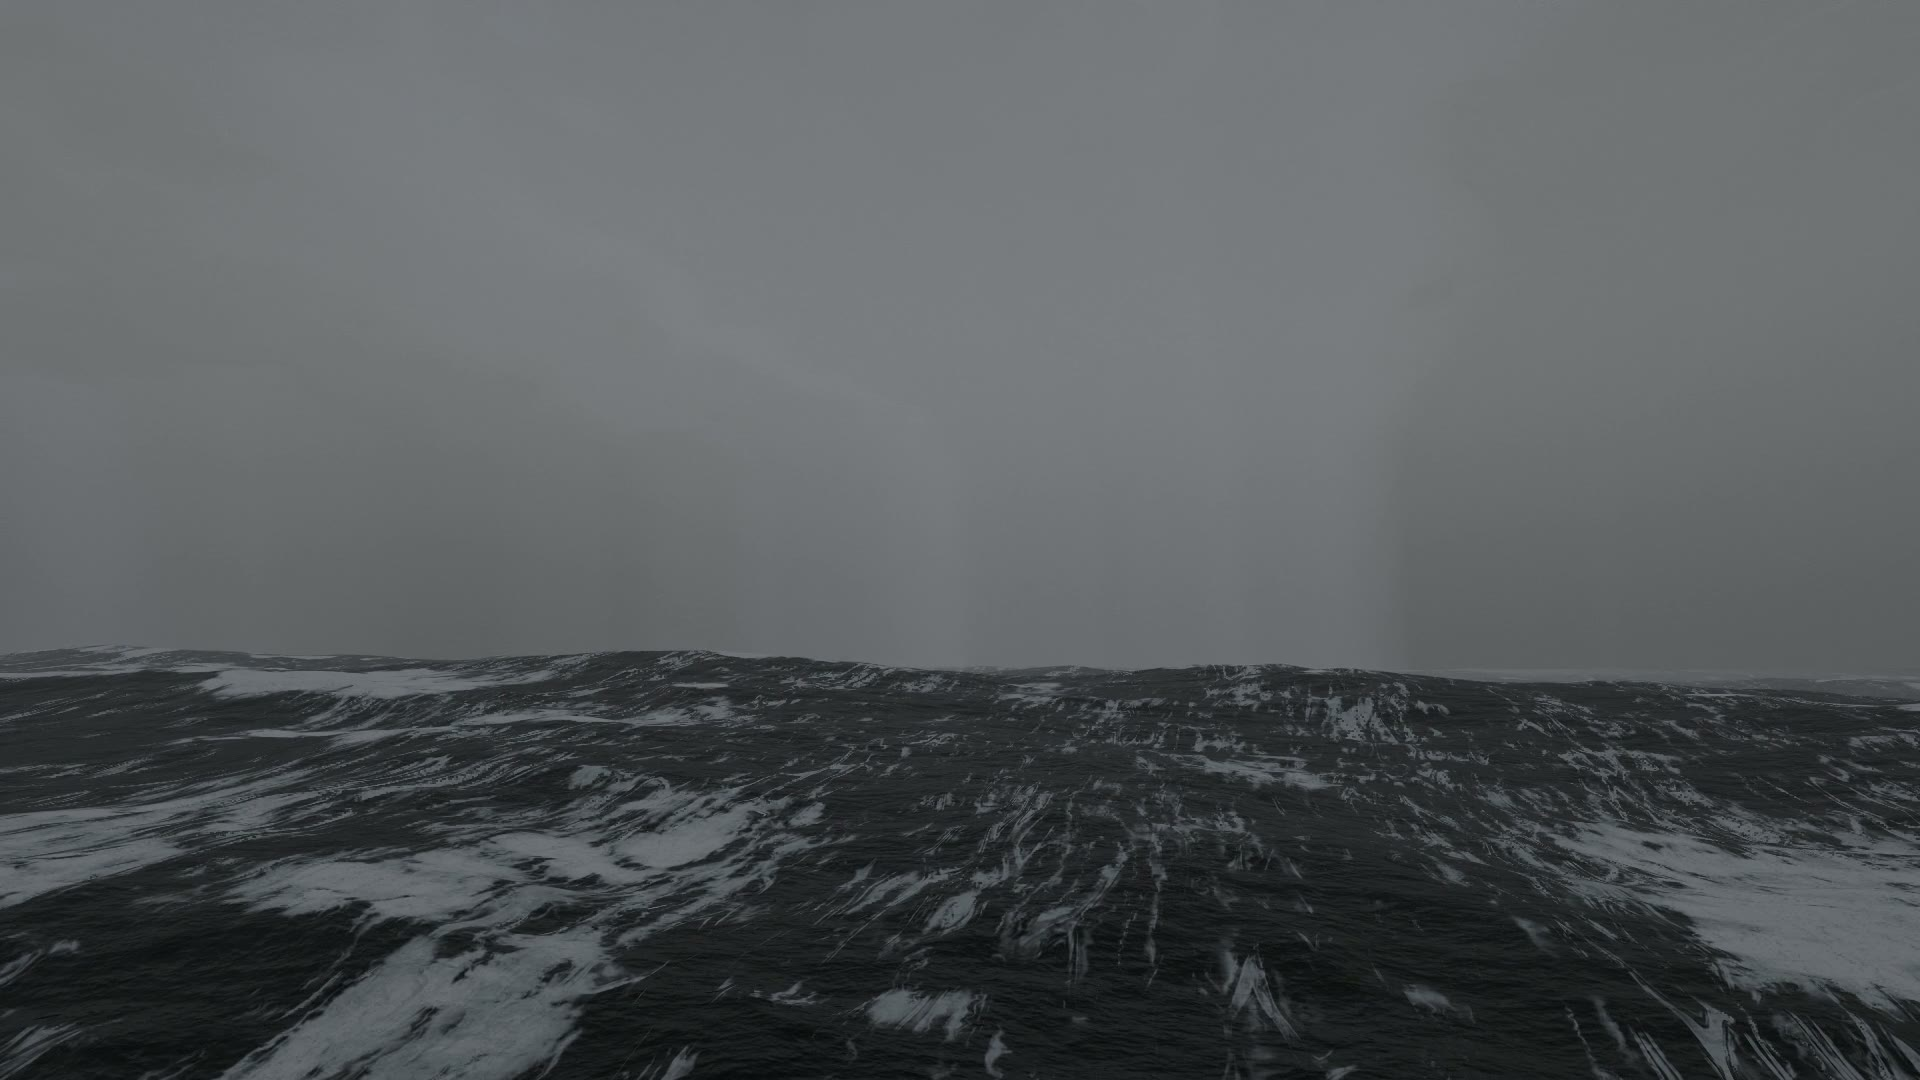
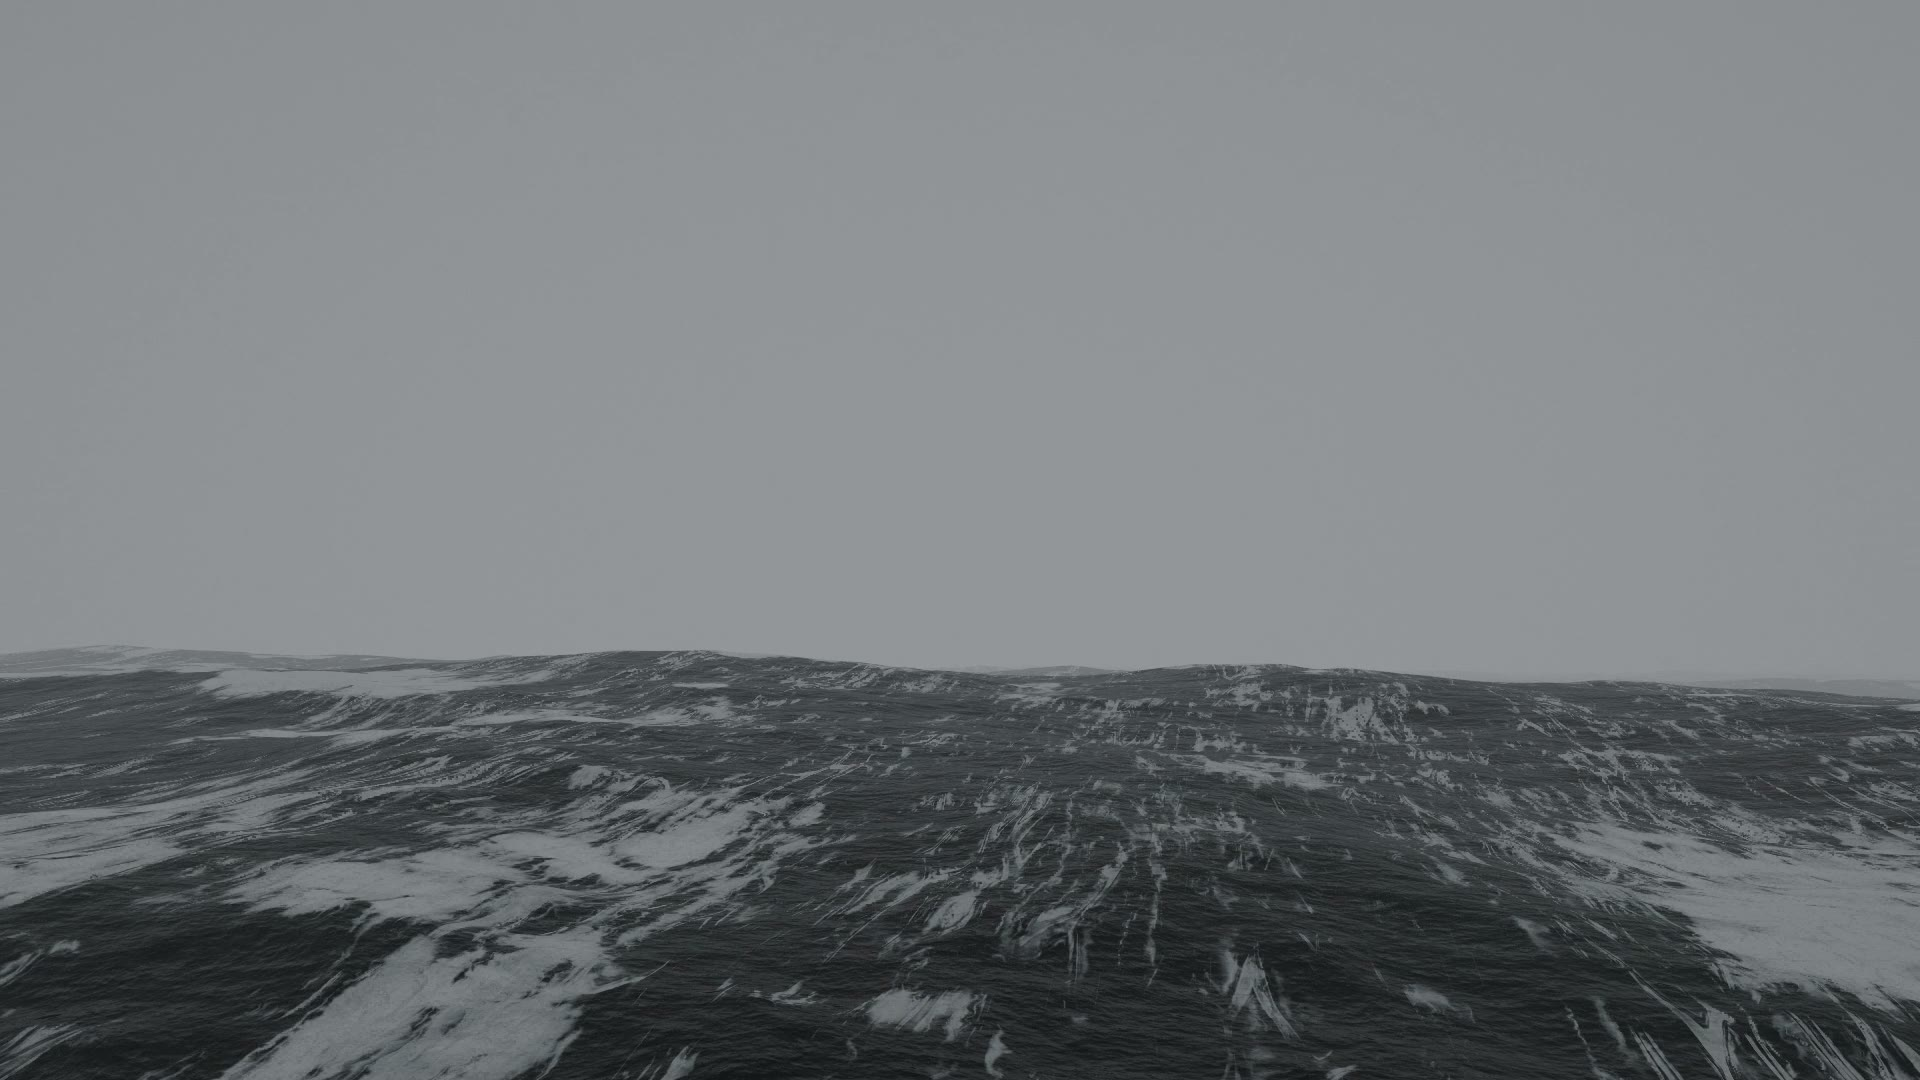
Film 1.3: act II clouds over (no squall front sweeping by), crackle-free sound, new stills
The one-minute film rendered with the reworked act II: building cumulus, a lowering dark deck, then
rain, gale and lightning. Sound: seamless noise loops and soft hull slaps (no crackle), and thunder
belongs to its own act: the last crack carries briefly over the cut to the night act and fades,
instead of a 22 s recording crackling on through the calm night.

diff --git a/src/audio/audio.js b/src/audio/audio.js
@@ -198,9 +198,10 @@ export class AudioEngine {
 
   // Thunder from a strike at distance (m): delay by the speed of sound, air absorption removes
   // highs with distance (the crack becomes a rumble), level falls ~1/r with a floor.
-  thunder(at, dist, power = 1, seed = Math.random()) {
+  // until: the end of its film act (the last crack may carry briefly over the cut, then fades)
+  thunder(at, dist, power = 1, seed = Math.random(), until = Infinity) {
     const ctx = this.ctx;
-    if (!ctx) return;
+    if (!ctx || at + dist / 343 > until - 0.6) return;
     const close = dist < 2200 && this.buffers.thunder_close;
     const name = close ? 'thunder_close' : THUNDER_FILES[Math.floor(seed * THUNDER_FILES.length) % THUNDER_FILES.length];
     const buf = this.buffers[name];
@@ -218,6 +219,7 @@ export class AudioEngine {
     if (pan) { pan.pan.value = (seed - 0.5) * 0.9; n = n.connect(pan); }
     n.connect(this.bus);
     src.start(at + dist / 343);
+    if (Number.isFinite(until)) { g.gain.setTargetAtTime(0, until - 0.8, 0.25); src.stop(until + 1); }
   }
 }
 
@@ -230,7 +232,7 @@ export async function renderSoundtrack(duration, paramsAt, strikes, sampleRate =
     eng.apply(t, paramsAt(t), 0.08);
     eng.master.gain.setTargetAtTime(eng.volume * gainAt(t), t, 0.06);
   }
-  strikes.forEach((s, i) => eng.thunder(s.t, s.dist, s.power, (i * 0.618 + 0.13) % 1));
+  strikes.forEach((s, i) => eng.thunder(s.t, s.dist, s.power, (i * 0.618 + 0.13) % 1, s.until ?? Infinity));
   return ctx.startRendering();
 }
 

diff --git a/src/main.js b/src/main.js
@@ -402,7 +402,8 @@ export class App {
       const mc = w.front > 0.5 ? smoothstep(-w.frontWidth, w.frontWidth, -w.frontDist) : 0;
       return { wind: w.wind, rain: w.rain + ((w.sRain ?? 0) - w.rain) * mc, hs, tp: (2 * Math.PI * Math.max(w.wind, 1)) / (0.855 * 9.81), foam: Math.min(2 * 3.84e-6 * Math.pow(w.wind, 3.41), 0.4) };
     };
-    const strikes = film.strikes.map((s) => ({ t: s.t, dist: s.dist, power: s.power }));
+    // a strike is heard only within its own act (the cut moves on in time)
+    const strikes = film.strikes.map((s) => ({ t: s.t, dist: s.dist, power: s.power, until: (film.acts.find((a) => a.start > s.t)?.start ?? Infinity) + 1.2 }));
     // sound follows the picture fades, but only dips (not silence) at the cut between acts
     const gainAt = (t) => Math.max(film.fadeAt(t), film.acts.slice(1).some((a) => Math.abs(t - a.start) < 1) ? 0.35 : 0);
     const buf = await renderSoundtrack(film.duration, paramsAt, strikes, 48000, gainAt);
